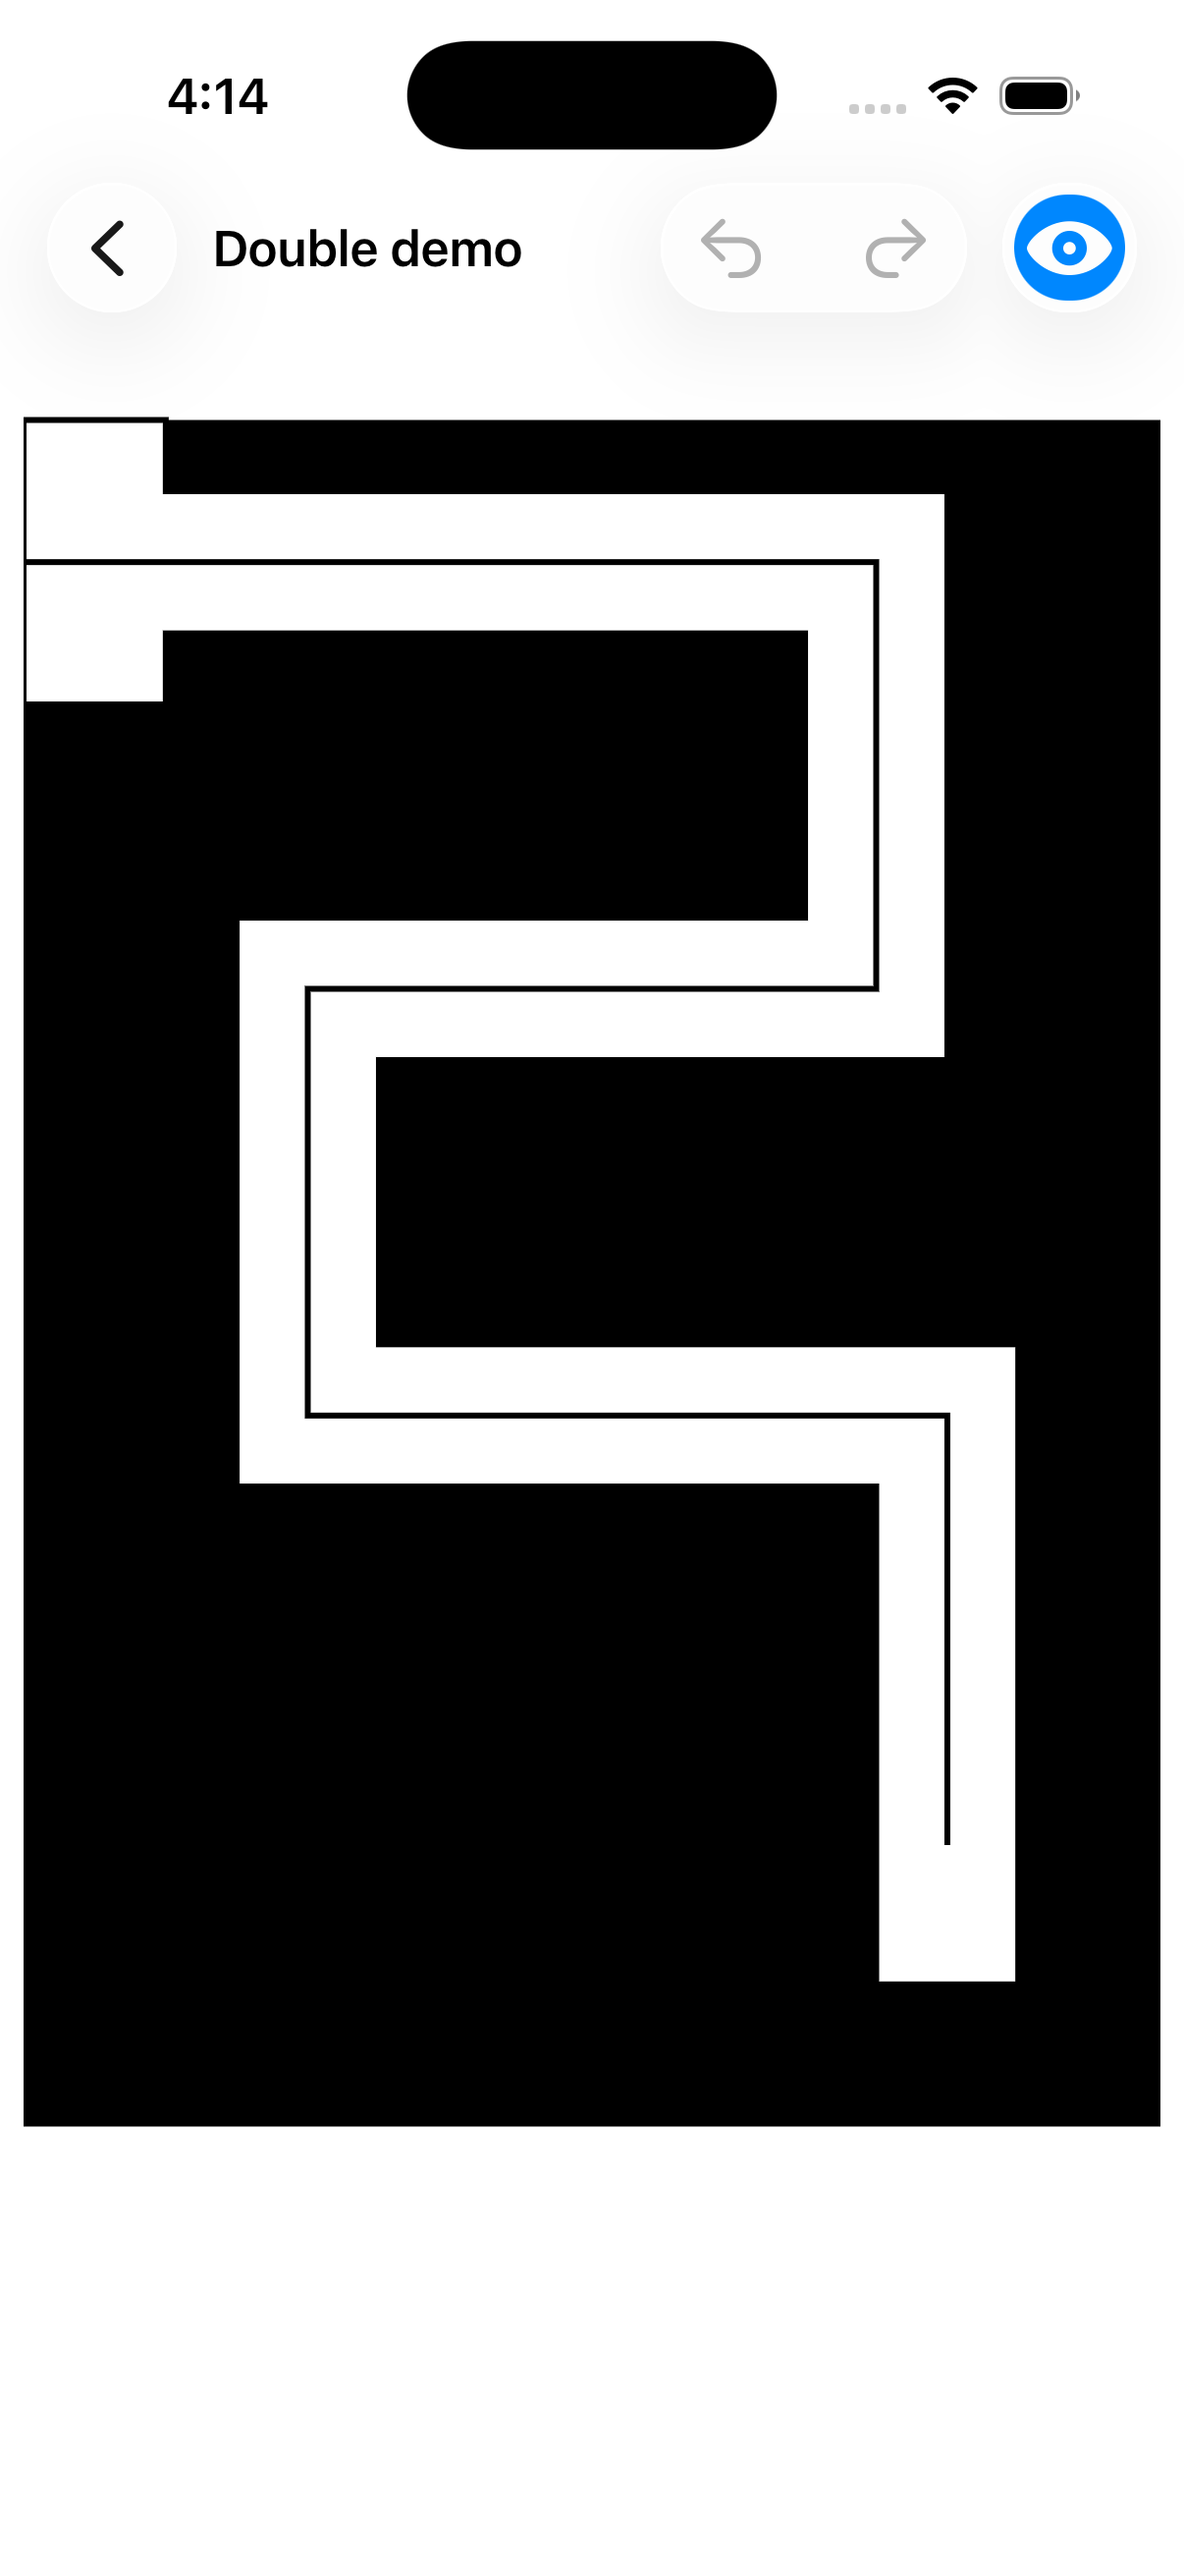
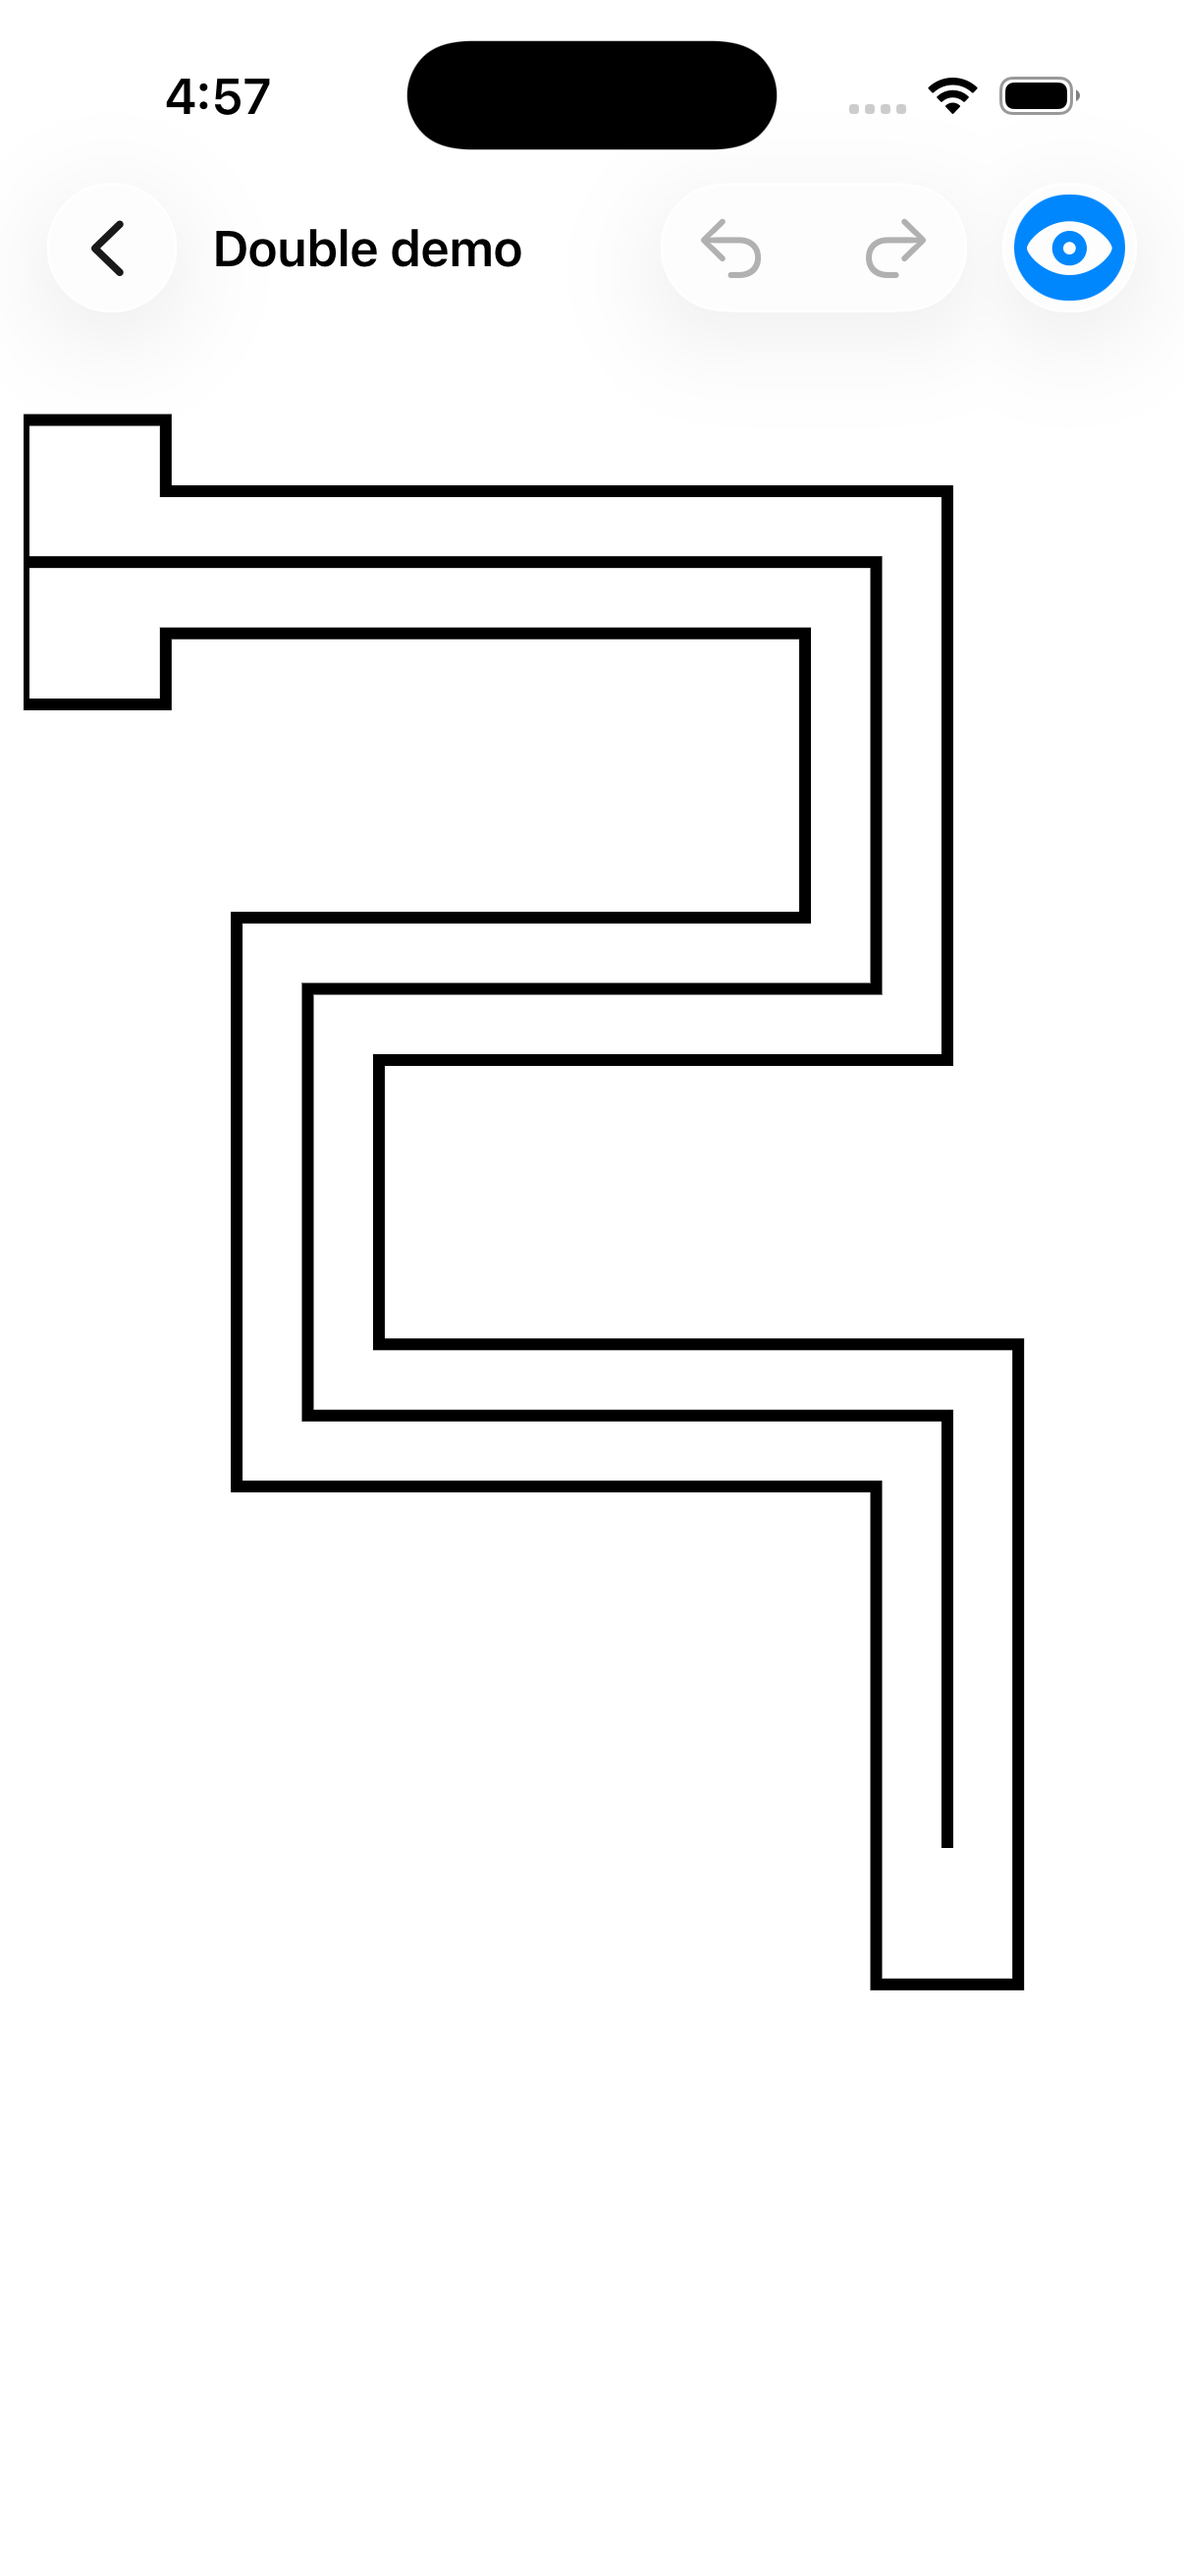
Draw uncarved cells as open space in preview
Preview now strokes only the walls, so dead space reads the same as
paths and rooms.

diff --git a/MazeTool/Views/MazeCanvas.swift b/MazeTool/Views/MazeCanvas.swift
@@ -6,8 +6,8 @@ struct MazeCanvas: View {
     let maze: Maze
     var wallThickness: CGFloat = 2
     var showsGrid = true
-    /// Two-tone rendering of the bare maze: open space in the background colour and everything
-    /// else, walls and uncarved cells alike, in the foreground colour. Hides all editor overlays.
+    /// Draws only the walls, in the foreground colour, with nothing behind them. Uncarved cells
+    /// are left as blank as open space. Hides all editor overlays.
     var isPreview = false
     /// Rooms being dragged out, drawn as dashed outlines over the maze.
     var roomPreviews: [Room] = []
@@ -37,8 +37,6 @@ struct MazeCanvas: View {
                 }
             }
 
-            context.fill(Path(geometry.frame), with: .color(isPreview ? .primary : Color(.systemGray5)))
-            context.fill(floor, with: .color(Color(.systemBackground)))
             if isPreview {
                 context.stroke(
                     walls, with: .color(.primary),
@@ -46,6 +44,8 @@ struct MazeCanvas: View {
                 )
                 return
             }
+            context.fill(Path(geometry.frame), with: .color(Color(.systemGray5)))
+            context.fill(floor, with: .color(Color(.systemBackground)))
             for room in maze.rooms {
                 Self.draw(room, in: geometry.rect(for: room), cellSize: geometry.cellSize, context: context)
             }
